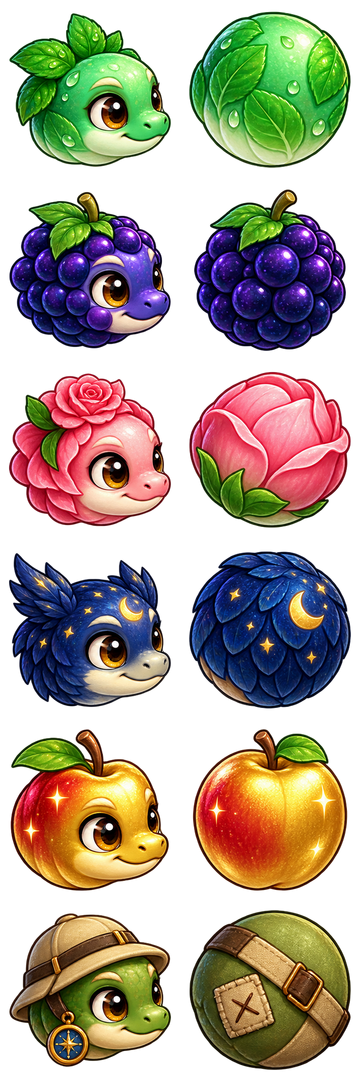
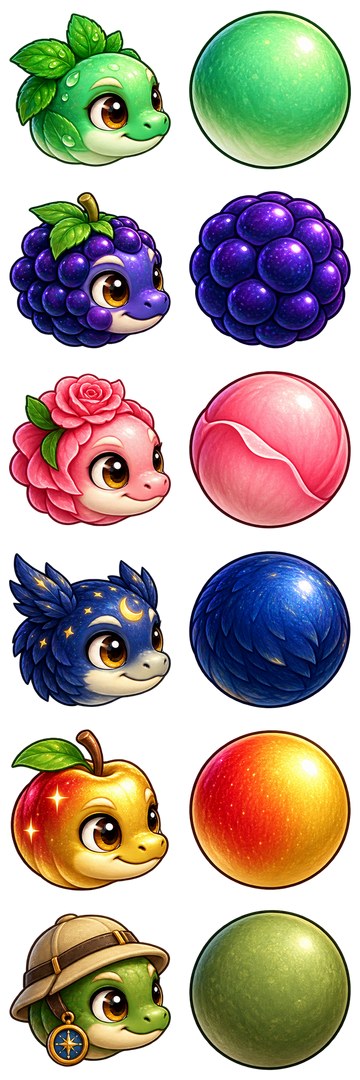
Release Wurm 0.2.26 with plainer skin bodies
The six painted skins keep their heads; their body segments are now calm
balls of the same material without leaves, stems, moons or patches, as
they repeat along the whole worm.

Changed region(s): [[0.5194, 0.0, 0.9778, 1.0]]

diff --git a/CHANGELOG.md b/CHANGELOG.md
@@ -1,5 +1,9 @@
 # Changelog
 
+## [0.2.26] - 2026-10-29
+
+- The new skins have calmer, plainer bodies.
+
 ## [0.2.25] - 2026-10-29
 
 - Mint, Berry, Rose, Night owl, Golden apple and Explorer have new hand-painted looks; skins you own stay yours.
